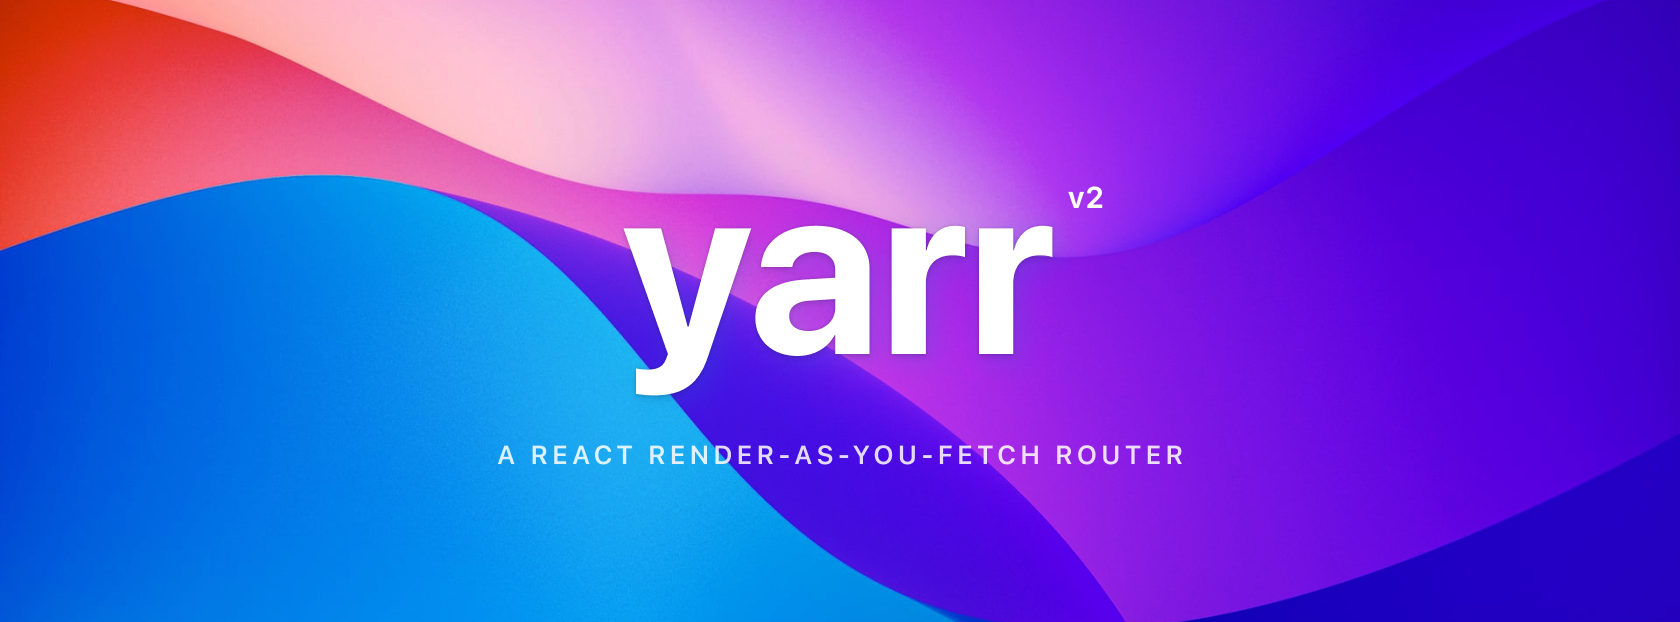
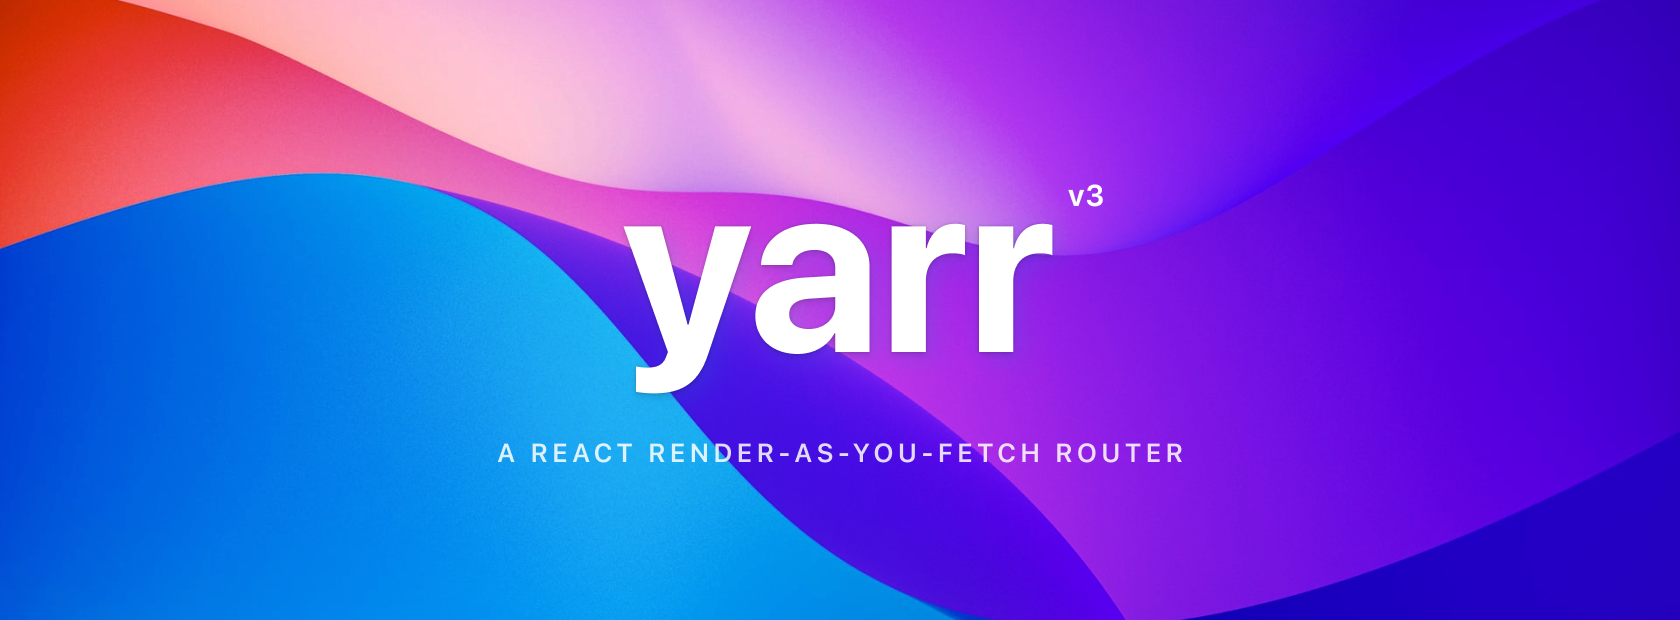
docs: update docs for v3

diff --git a/README.md b/README.md
@@ -16,18 +16,9 @@ A React router library enabling the render-as-you-fetch concurrent UI pattern.
 
 **Yarr** is _yet another React router_ library, but with a focus on enabling the [render-as-you-fetch concurrent UI pattern](https://reactjs.org/docs/concurrent-mode-suspense.html) by offering both component **code preloading** and **data preloading**. This behavior is enabled even without opt-in to [React's experimental Concurrent Mode](https://it.reactjs.org/docs/concurrent-mode-intro.html).
 
-Yarr was originally developed for use with [Relay](https://relay.dev) (_formally Relay Modern_) in September 2020 for internal use at [Contra](https://www.contra.com). It's since been open-sourced to give back to the community and promote Relay adoption.
-
 ## Getting Started
 
 - [Step-by-step guide](/docs/guides/1-step-by-step-guide.md)
-
-Community articles:
-
-- [Getting started with Yarr!](https://medium.com/nerd-for-tech/getting-started-with-yarr-7d864266b9d1)
-- [Yarr (yet another react router) | Let’s get started | Great react routing library](https://suneetbansal.medium.com/yarr-yet-another-react-router-lets-get-started-great-react-routing-library-3e550c0834d7)
-- [Yarr와 Relay를 이용해 Render-as-you-fetch 라우팅을 구현하기](https://velog.io/@jaeholee/render-as-you-fetch-using-yarr-and-relay)
-- [Is Yarr just another React Router?](https://medium.com/front-end-weekly/is-yarr-just-another-react-router-3208d6cdceda)
 
 ## Usage Examples
 
@@ -45,6 +36,10 @@ Community articles:
 - [Hooks](/docs/api-reference/hooks.md)
 - [Utils](/docs/api-reference/utils.md)
 
+## Acknowledgements
+
+**Yarr** was originally developed by [Eric Taylor](https://github.com/erictaylor) at [Contra](https://www.contra.com) to power Contra's [Relay](https://relay.dev) (_formally Relay Modern_) and React Suspense tech stack. It's since been open-sourced to give back to the community and promote Relay/Suspense adoption.
+
 ## License
 
-[MIT License](/LICENSE)
+[MIT](/LICENSE.md) © [Eric Taylor](https://github.com/erictaylor)

diff --git a/docs/community-articles.md b/docs/community-articles.md
@@ -1,0 +1,6 @@
+# Yarr Community Articles
+
+- [Getting started with Yarr!](https://medium.com/nerd-for-tech/getting-started-with-yarr-7d864266b9d1)
+- [Yarr (yet another react router) | Let’s get started | Great react routing library](https://suneetbansal.medium.com/yarr-yet-another-react-router-lets-get-started-great-react-routing-library-3e550c0834d7)
+- [Yarr와 Relay를 이용해 Render-as-you-fetch 라우팅을 구현하기](https://velog.io/@jaeholee/render-as-you-fetch-using-yarr-and-relay)
+- [Is Yarr just another React Router?](https://medium.com/front-end-weekly/is-yarr-just-another-react-router-3208d6cdceda)
